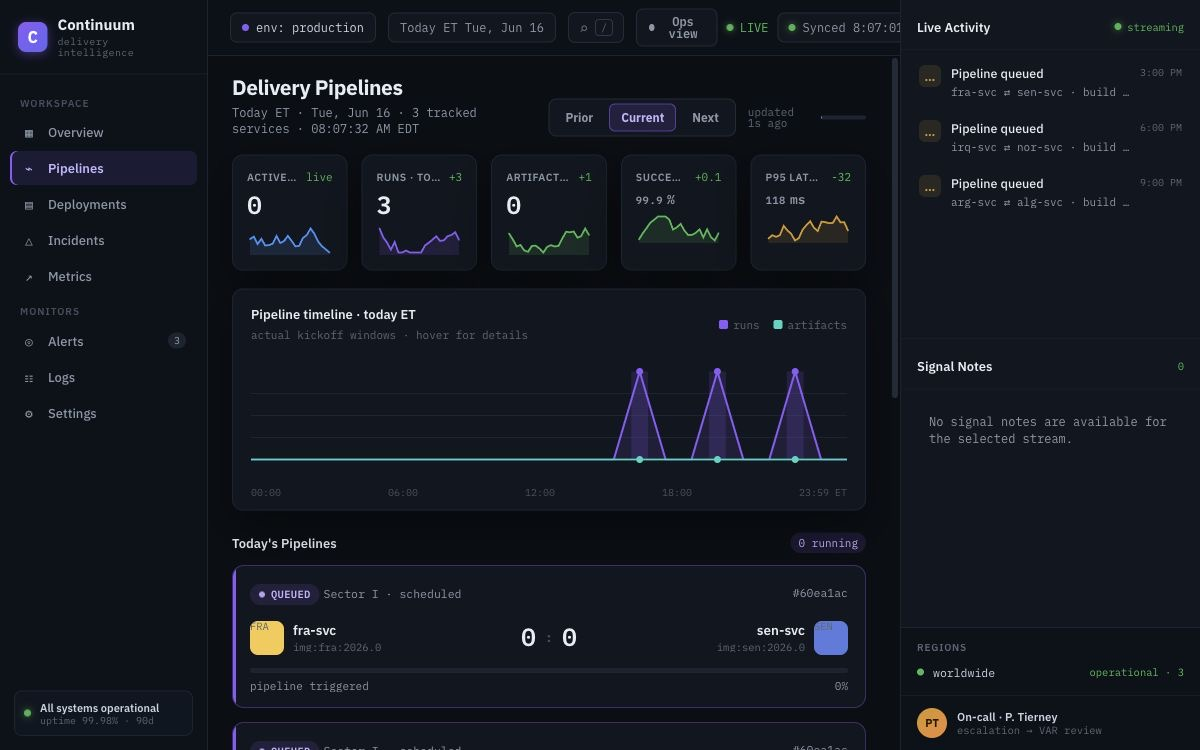
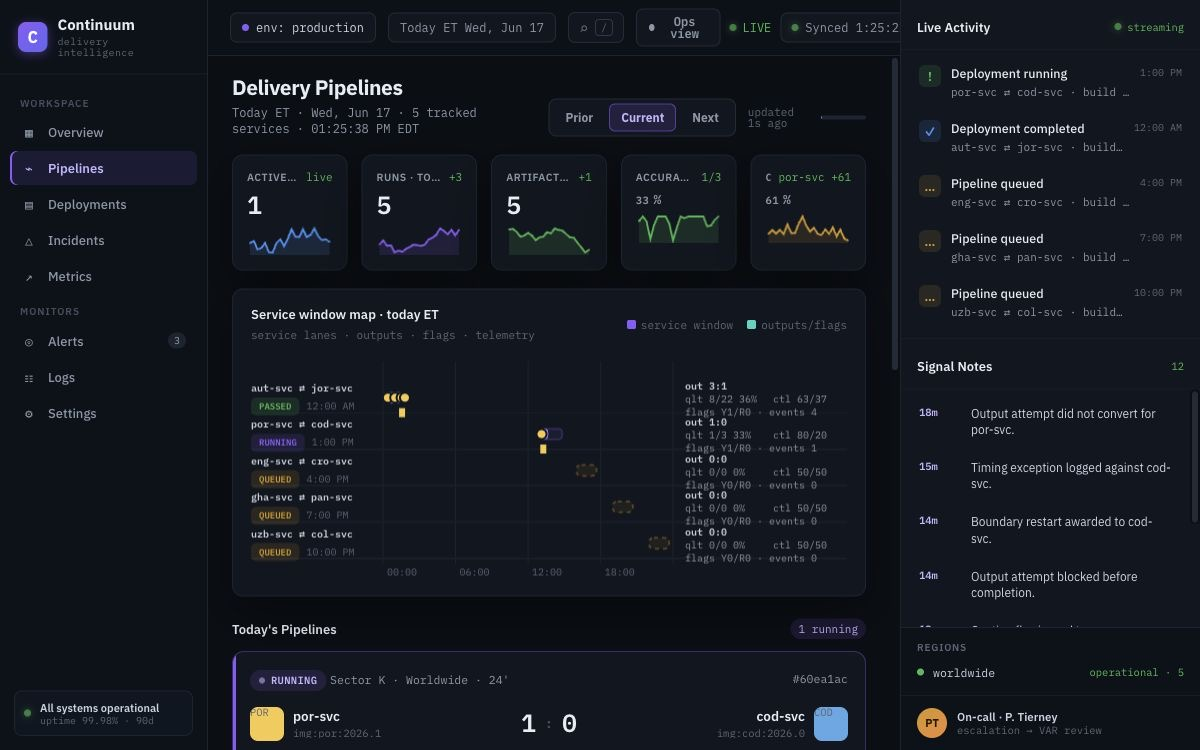
Harden public deployment

diff --git a/server.js b/server.js
@@ -28,16 +28,46 @@ const contentTypes = {
 
 const cache = new Map();
 
+const securityHeaders = {
+  "content-security-policy": [
+    "default-src 'self'",
+    "script-src 'self'",
+    "style-src 'self' 'unsafe-inline' https://fonts.googleapis.com",
+    "font-src 'self' https://fonts.gstatic.com",
+    "img-src 'self' data:",
+    "connect-src 'self'",
+    "base-uri 'self'",
+    "form-action 'none'",
+    "frame-ancestors 'none'",
+    "object-src 'none'",
+    "upgrade-insecure-requests"
+  ].join("; "),
+  "cross-origin-opener-policy": "same-origin",
+  "permissions-policy": "accelerometer=(), camera=(), geolocation=(), gyroscope=(), magnetometer=(), microphone=(), payment=(), usb=()",
+  "referrer-policy": "strict-origin-when-cross-origin",
+  "x-content-type-options": "nosniff",
+  "x-frame-options": "DENY"
+};
+
+function withSecurityHeaders(headers = {}) {
+  return { ...headers, ...securityHeaders };
+}
+
 function fetchJson(url) {
   return new Promise((resolve, reject) => {
-    const request = https.get(url, {
-      rejectUnauthorized: false,
+    const requestOptions = {
       headers: {
         accept: "application/json",
         "user-agent": "ops-signal-dashboard/1.0"
       },
       timeout: 10_000
-    }, (response) => {
+    };
+
+    if (process.env.ALLOW_INSECURE_LOCAL_FETCH === "1") {
+      requestOptions.rejectUnauthorized = false;
+    }
+
+    const request = https.get(url, requestOptions, (response) => {
       let body = "";
       response.setEncoding("utf8");
       response.on("data", (chunk) => {
@@ -112,14 +142,19 @@ function parseEventId(value) {
   return /^\d+$/.test(value || "") ? value : "";
 }
 
-function json(res, statusCode, body) {
+function json(res, statusCode, body, method = "GET", headers = {}) {
   const payload = JSON.stringify(body);
-  res.writeHead(statusCode, {
+  res.writeHead(statusCode, withSecurityHeaders({
     "content-type": "application/json; charset=utf-8",
     "cache-control": "no-store",
-    "content-length": Buffer.byteLength(payload)
-  });
-  res.end(payload);
+    "content-length": Buffer.byteLength(payload),
+    ...headers
+  }));
+  res.end(method === "HEAD" ? undefined : payload);
+}
+
+function methodNotAllowed(res, method) {
+  json(res, 405, { error: "Method not allowed" }, method, { allow: "GET, HEAD" });
 }
 
 function numeric(value, fallback = 0) {
@@ -556,52 +591,66 @@ async function commentaryPayload(leagueSlug, eventId) {
 }
 
 async function handleApi(req, res, url) {
+  if (req.method !== "GET" && req.method !== "HEAD") {
+    methodNotAllowed(res, req.method);
+    return;
+  }
+
   if (url.pathname === "/api/scores") {
     const offset = parseOffset(url.searchParams.get("offset"));
     const dateKeys = parseDateKeys(url.searchParams.get("date"), offset);
 
     try {
-      json(res, 200, await scoresPayload(dateKeys));
+      json(res, 200, await scoresPayload(dateKeys), req.method);
     } catch (error) {
-      json(res, 502, { error: error.message });
+      json(res, 502, { error: error.message }, req.method);
     }
     return;
   }
 
   if (url.pathname === "/api/commentary") {
     try {
-      json(res, 200, await commentaryPayload(url.searchParams.get("league"), url.searchParams.get("event")));
+      json(res, 200, await commentaryPayload(url.searchParams.get("league"), url.searchParams.get("event")), req.method);
     } catch (error) {
-      json(res, 502, { error: error.message });
+      json(res, 502, { error: error.message }, req.method);
     }
     return;
   }
 
-  json(res, 404, { error: "Unknown API route" });
+  json(res, 404, { error: "Unknown API route" }, req.method);
 }
 
 function serveStatic(req, res, url) {
+  if (req.method !== "GET" && req.method !== "HEAD") {
+    methodNotAllowed(res, req.method);
+    return;
+  }
+
   const requested = url.pathname === "/" ? "/index.html" : decodeURIComponent(url.pathname);
   const filePath = path.normalize(path.join(PUBLIC_DIR, requested));
 
   if (!filePath.startsWith(PUBLIC_DIR)) {
-    res.writeHead(403);
+    res.writeHead(403, withSecurityHeaders());
     res.end("Forbidden");
     return;
   }
 
   fs.stat(filePath, (statError, stat) => {
     if (statError || !stat.isFile()) {
-      res.writeHead(404);
+      res.writeHead(404, withSecurityHeaders());
       res.end("Not found");
       return;
     }
 
     const ext = path.extname(filePath);
-    res.writeHead(200, {
+    res.writeHead(200, withSecurityHeaders({
       "content-type": contentTypes[ext] || "application/octet-stream",
-      "cache-control": "no-cache"
-    });
+      "cache-control": ext === ".html" ? "no-cache" : "public, max-age=60"
+    }));
+    if (req.method === "HEAD") {
+      res.end();
+      return;
+    }
     fs.createReadStream(filePath).pipe(res);
   });
 }

diff --git a/public/index.html b/public/index.html
@@ -60,6 +60,11 @@
               <span class="sync-dot"></span>
               <span>Sync pending</span>
             </div>
+            <a class="icon-button repo-button" href="https://github.com/vinodsharma10x/soccer-worldcup-ops" target="_blank" rel="noopener noreferrer" aria-label="GitHub repository" title="GitHub repository">
+              <svg viewBox="0 0 24 24" aria-hidden="true">
+                <path d="M12 .7a11.3 11.3 0 0 0-3.6 22c.6.1.8-.2.8-.6v-2.2c-3.2.7-3.9-1.4-3.9-1.4-.5-1.3-1.2-1.6-1.2-1.6-1-.7.1-.7.1-.7 1.1.1 1.7 1.2 1.7 1.2 1 .1 2 .8 3.2.6.1-.7.4-1.2.7-1.5-2.6-.3-5.3-1.3-5.3-5.7 0-1.3.5-2.3 1.2-3.1-.1-.3-.5-1.6.1-3.2 0 0 1-.3 3.4 1.2a11.7 11.7 0 0 1 6.2 0c2.4-1.6 3.4-1.2 3.4-1.2.6 1.6.2 2.9.1 3.2.8.8 1.2 1.8 1.2 3.1 0 4.4-2.7 5.4-5.3 5.7.4.4.8 1.1.8 2.2v3.3c0 .4.2.7.8.6A11.3 11.3 0 0 0 12 .7Z"></path>
+              </svg>
+            </a>
             <button class="icon-button" id="refreshButton" type="button" aria-label="Refresh feed" title="Refresh feed">
               <svg viewBox="0 0 24 24" aria-hidden="true">
                 <path d="M20 6v6h-6"></path>

diff --git a/public/styles.css b/public/styles.css
@@ -386,6 +386,7 @@ body.reveal-mode .mode-toggle {
   padding: 0;
   color: var(--muted);
   cursor: pointer;
+  text-decoration: none;
 }
 
 .icon-button svg {
@@ -400,6 +401,17 @@ body.reveal-mode .mode-toggle {
 
 .icon-button.is-syncing svg {
   animation: spin 780ms linear infinite;
+}
+
+.repo-button svg {
+  fill: currentColor;
+  stroke: none;
+}
+
+.repo-button:hover,
+.icon-button:hover {
+  border-color: var(--line-3);
+  color: var(--text);
 }
 
 .avatar {

diff --git a/README.md b/README.md
@@ -4,6 +4,10 @@ A professional operations-style dashboard that displays live soccer schedule and
 
 The default view masks teams as services like `esp-svc`, `arg-svc`, and `fra-svc`, so it looks like a delivery/observability dashboard. A reveal toggle switches the labels back to match-day language.
 
+Live site: [https://swc.careerleap.app/](https://swc.careerleap.app/)
+
+GitHub: [vinodsharma10x/soccer-worldcup-ops](https://github.com/vinodsharma10x/soccer-worldcup-ops)
+
 ## Features
 
 - Pulls World Cup match data from ESPN public scoreboard endpoints
@@ -26,6 +30,12 @@ Use another port if needed:
 
 ```bash
 PORT=4190 npm start
+```
+
+If your local Node trust store rejects the ESPN certificate chain, use the local-only bypass:
+
+```bash
+ALLOW_INSECURE_LOCAL_FETCH=1 npm start
 ```
 
 ## Build
